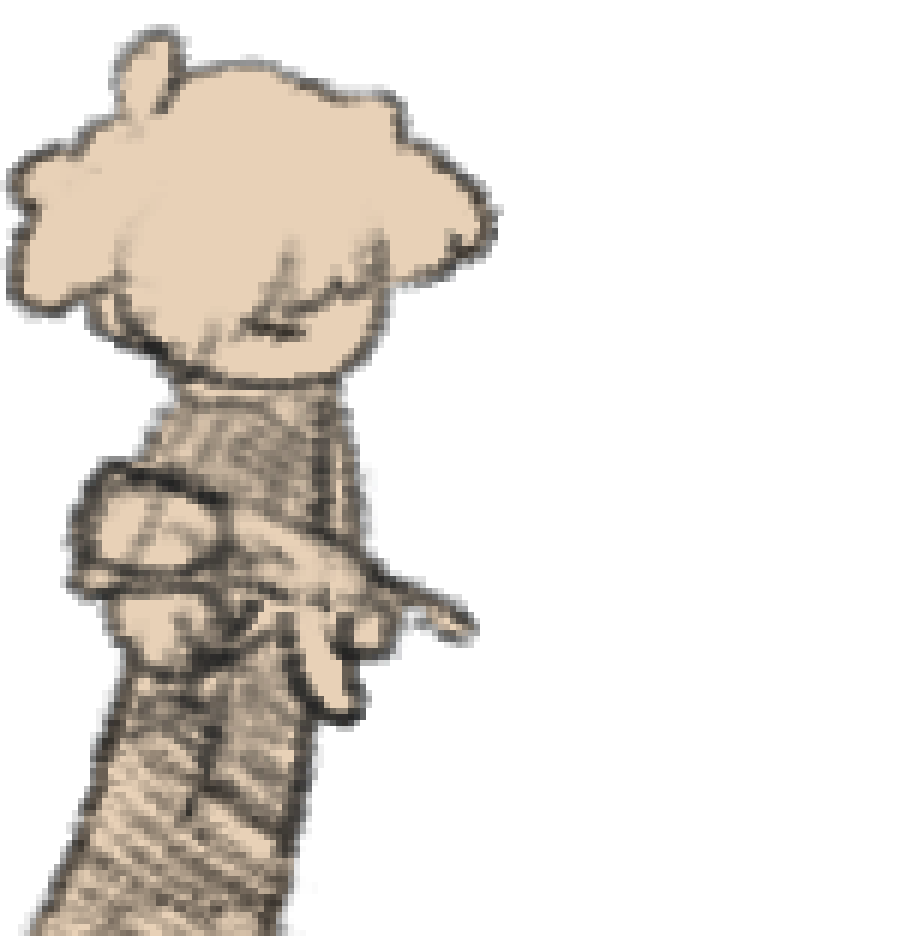
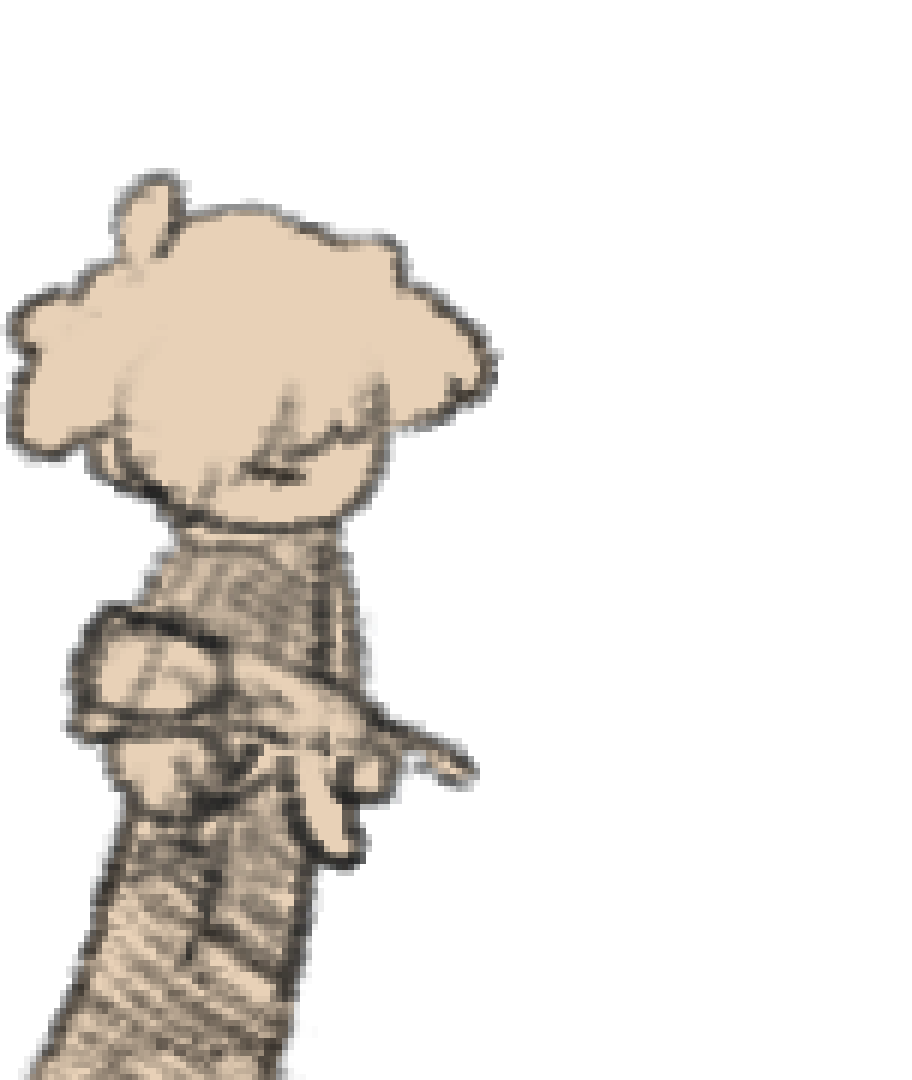
add decorations for tyrant and ice mage

Changed region(s): [[0.0, 0.0, 0.5526, 0.9915]]

diff --git a/components/OcsComponent.tsx b/components/OcsComponent.tsx
@@ -62,8 +62,41 @@ export default function Ocs() {
         className="w-screen max-w-screen h-screen max-h-screen justify-center align-center items-center flex flex-col relative bg-[#d1f8ff]"
         ref={miersRef}
       >
-        
-        {/* PORTRAITS */}
+         
+        {/* DECORS */}
+        <div
+          className="flex items-center justify-center"
+        >
+
+          {/* DECO - ICE MAGE */}
+          <div
+            className={`
+              absolute bottom-0 right-[2vw] h-screen overflow-hidden z-99 transition-[translate] duration-1400 nonsel pointer-events-none
+              ${selectedMier === "icemage" ? "" : "translate-x-[200%]"}
+            `}
+          >
+            <img 
+              src={`/images/ocs/mier-icemage-deco.png`}
+              className="h-full w-auto max-w-none nonsel pointer-events-none"
+            />
+          </div>
+
+          {/* DECO - TYRANT */}
+          <div
+            className={`
+              absolute bottom-0 left-0 h-screen overflow-hidden z-100 transition-opacity duration-600 nonsel pointer-events-none
+              ${selectedMier === "tyrant" ? "opacity-100" : "opacity-0"}
+            `}
+          >
+            <img 
+              src={`/images/ocs/mier-tyrant-deco.png`}
+              className="h-full w-auto max-w-none nonsel pointer-events-none"
+            />
+          </div>
+
+        </div>
+
+        {/* CLOSE-UPS */}
         <div className="flex items-center justify-center">
 
           {/* ICEMAGE */}
@@ -126,7 +159,7 @@ export default function Ocs() {
           {/* ICE MAGE */}
           <div
             className={`
-              w-full h-full flex justify-center items-end cursor-pointer
+              h-screen flex justify-center items-end cursor-pointer
             `}
             onMouseEnter={() => {
               if (!selectedMier) setHoveredMier("icemage")
@@ -136,7 +169,7 @@ export default function Ocs() {
           >
             <img
               className={`
-                object-cover absolute z-22 max-w-none transition-transform duration-1200
+                h-full object-cover absolute z-22 max-w-none transition-transform duration-1200
                 nonsel pointer-events-none origin-top
                 ${!selectedMier &&
                   hoveredMier === "icemage" ? "z-55 scale-110 translate-x-[-5%]" :
@@ -154,7 +187,7 @@ export default function Ocs() {
           {/* ANGEL */}
           <div
             className={`
-              w-full h-full flex justify-center items-end cursor-pointer
+              h-screen flex justify-center items-end cursor-pointer
             `}
             onMouseEnter={() => {
               if (!selectedMier) setHoveredMier("angel")
@@ -165,7 +198,7 @@ export default function Ocs() {
           >
             <img
               className={`
-                object-cover absolute z-33 max-w-none transition-transform
+                h-full object-cover absolute z-33 max-w-none transition-transform
                 nonsel pointer-events-none origin-top duration-1200
                 ${!selectedMier &&
                   hoveredMier === "icemage" ? "translate-x-[10%]" :
@@ -185,7 +218,7 @@ export default function Ocs() {
           {/* TYRANT */}
           <div
             className={`
-              w-full h-full flex justify-center items-end cursor-pointer
+              h-screen flex justify-center items-end cursor-pointer
             `}
             onMouseEnter={() => {
               if (!selectedMier) setHoveredMier("tyrant")
@@ -195,7 +228,7 @@ export default function Ocs() {
           >
             <img
               className={`
-                object-cover absolute z-11 max-w-none transition-transform duration-1200
+                h-full object-cover absolute z-11 max-w-none transition-transform duration-1200
                 nonsel pointer-events-none origin-top
                 ${!selectedMier &&
                   hoveredMier === "tyrant" ? "z-55 scale-110 translate-x-[5%]" :
@@ -212,6 +245,7 @@ export default function Ocs() {
 
         </div>
 
+        {/* PORTRAITS */}
         <div className="absolute bottom-12 grid grid-cols-3 gap-4 max-w-screen z-99 bg-[#00000000]">
           <div
             className="aspect-square w-30 h-30 bg-white flex flex-col items-center justify-center nonsel cursor-pointer rounded-xl overflow-hidden"
